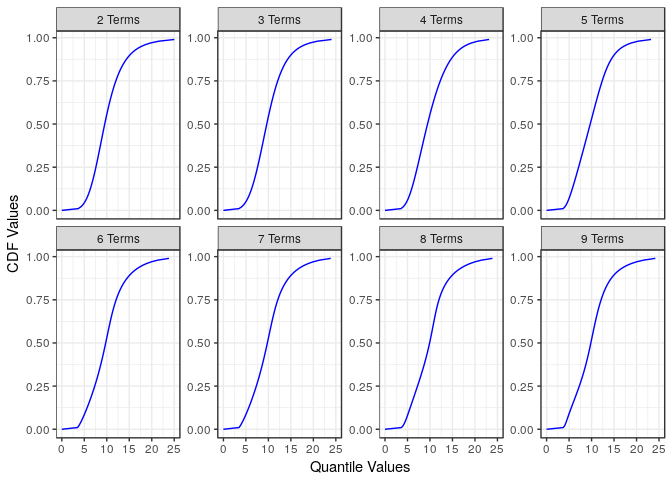
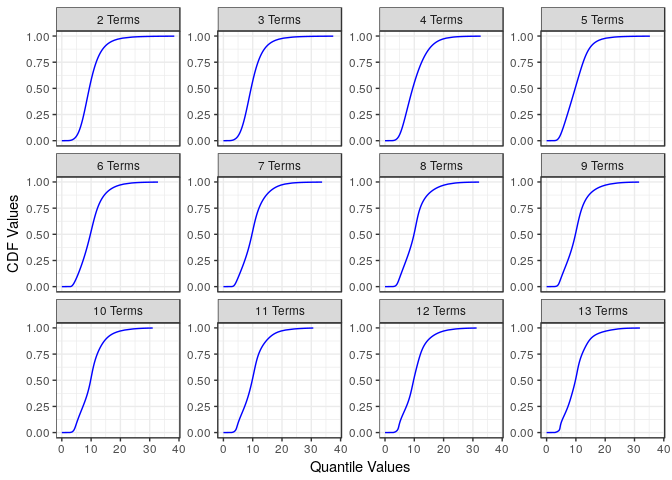
update readme and package deps.

diff --git a/README.md b/README.md
@@ -64,9 +64,7 @@ my_metalog <- r_metalog(fishSize$FishSize,
                        step_len = .01,
                        bounds=0,
                        boundedness = 'sl',
-                       term_limit = 9)
-#> [1] "Building the metalog distributions now"
-#> [1] "Building distribution functions and samples"
+                       term_limit = 13)
 ```
 
 This function returns a list with the following components for use
@@ -96,6 +94,10 @@ print(my_metalog$Validation, row.names=FALSE)
 #>     7   yes
 #>     8   yes
 #>     9   yes
+#>    10   yes
+#>    11   yes
+#>    12   yes
+#>    13   yes
 ```
 
 You can now plot some of the results using
